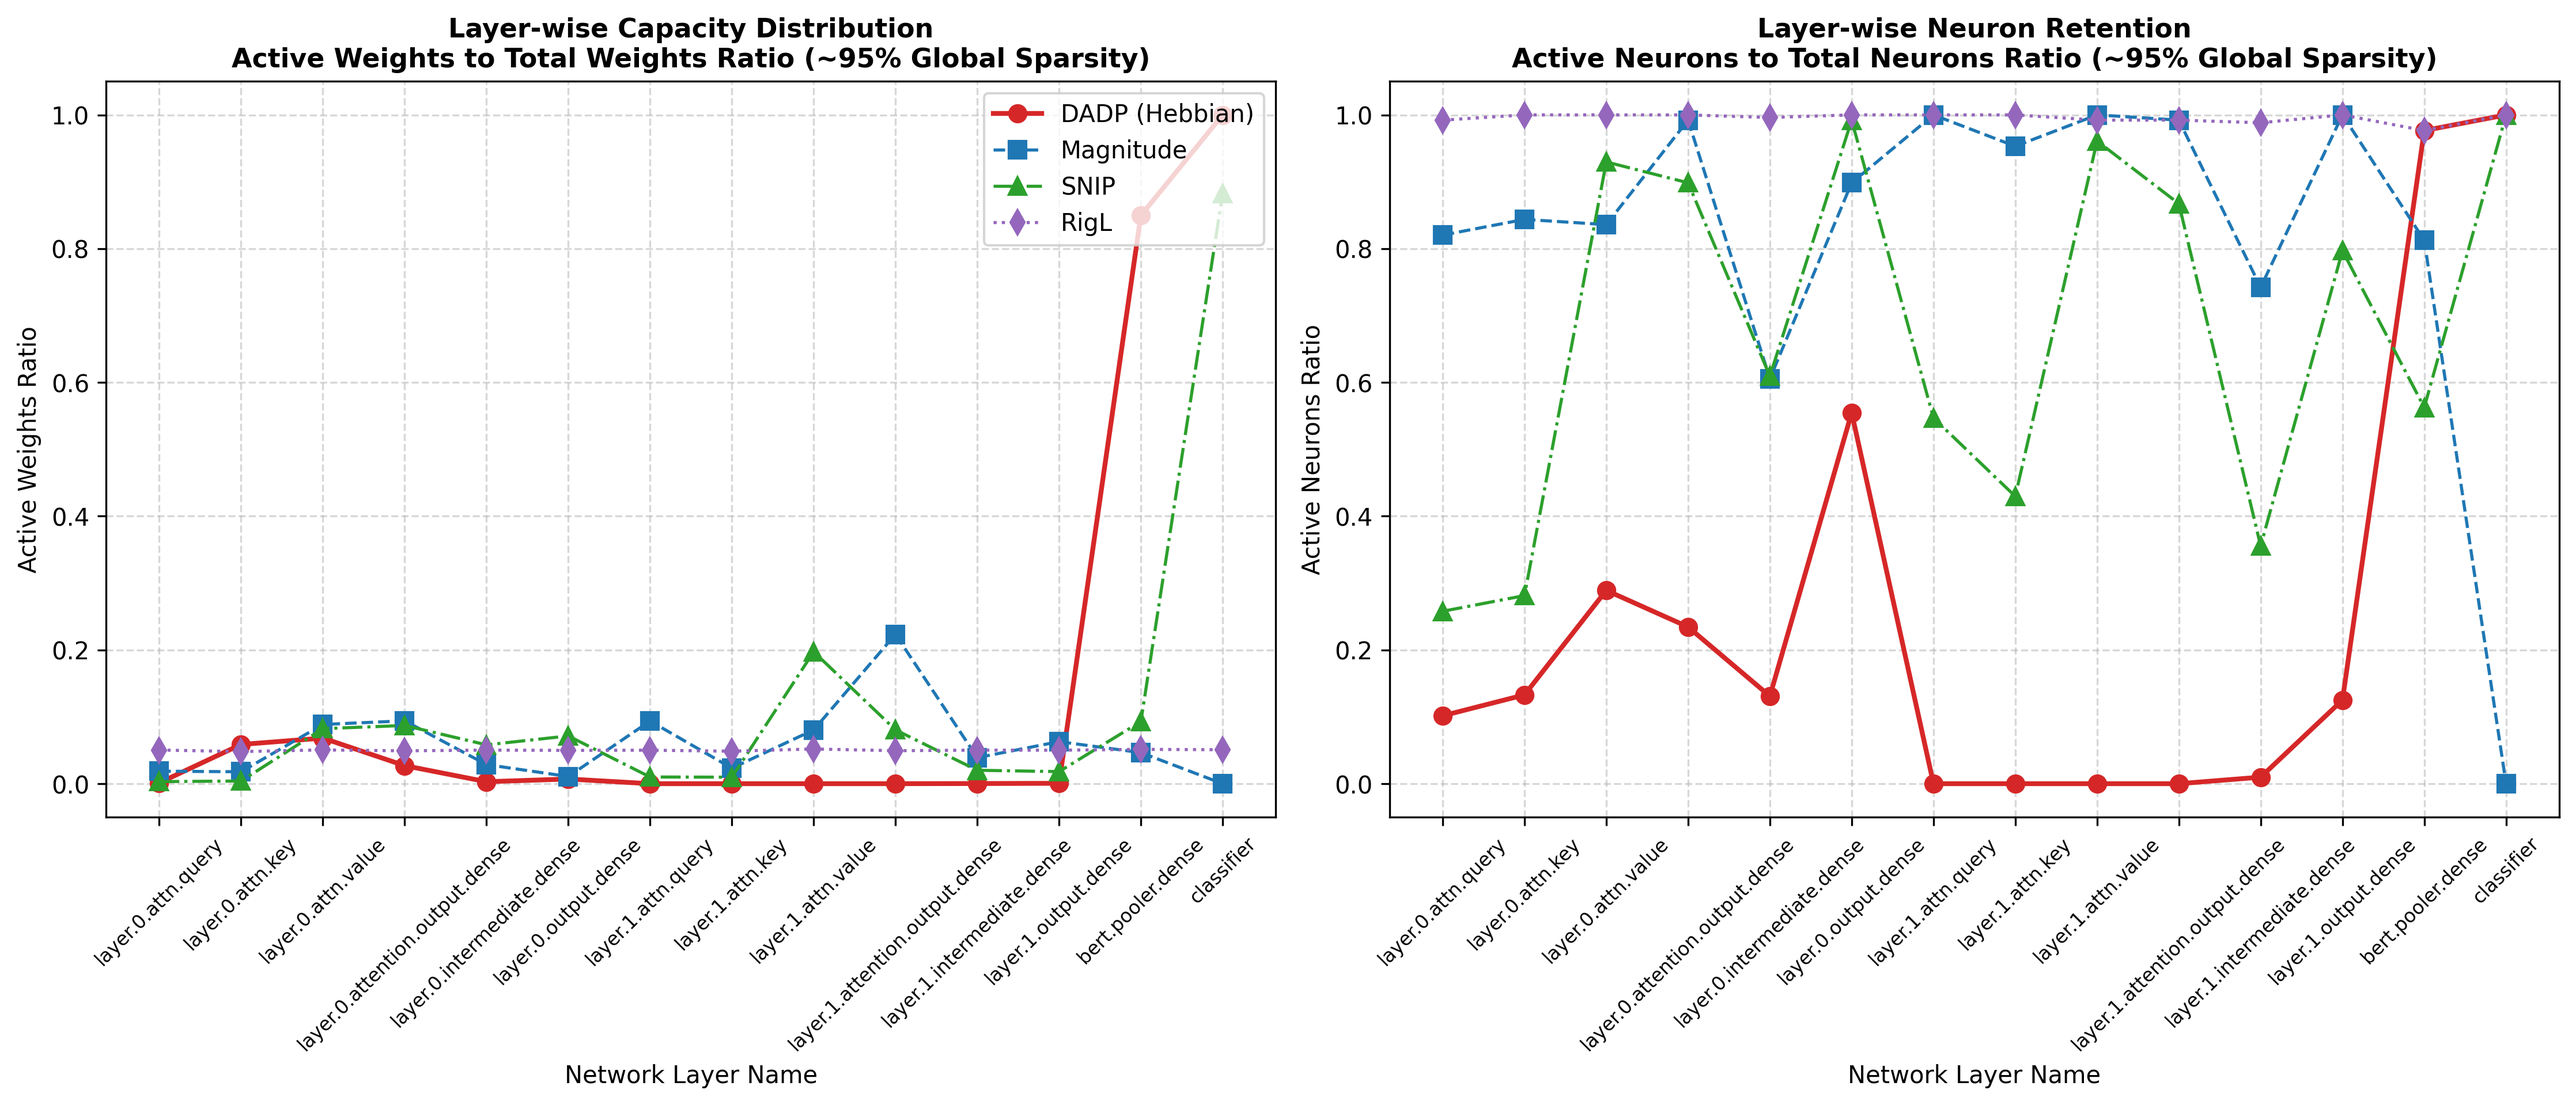
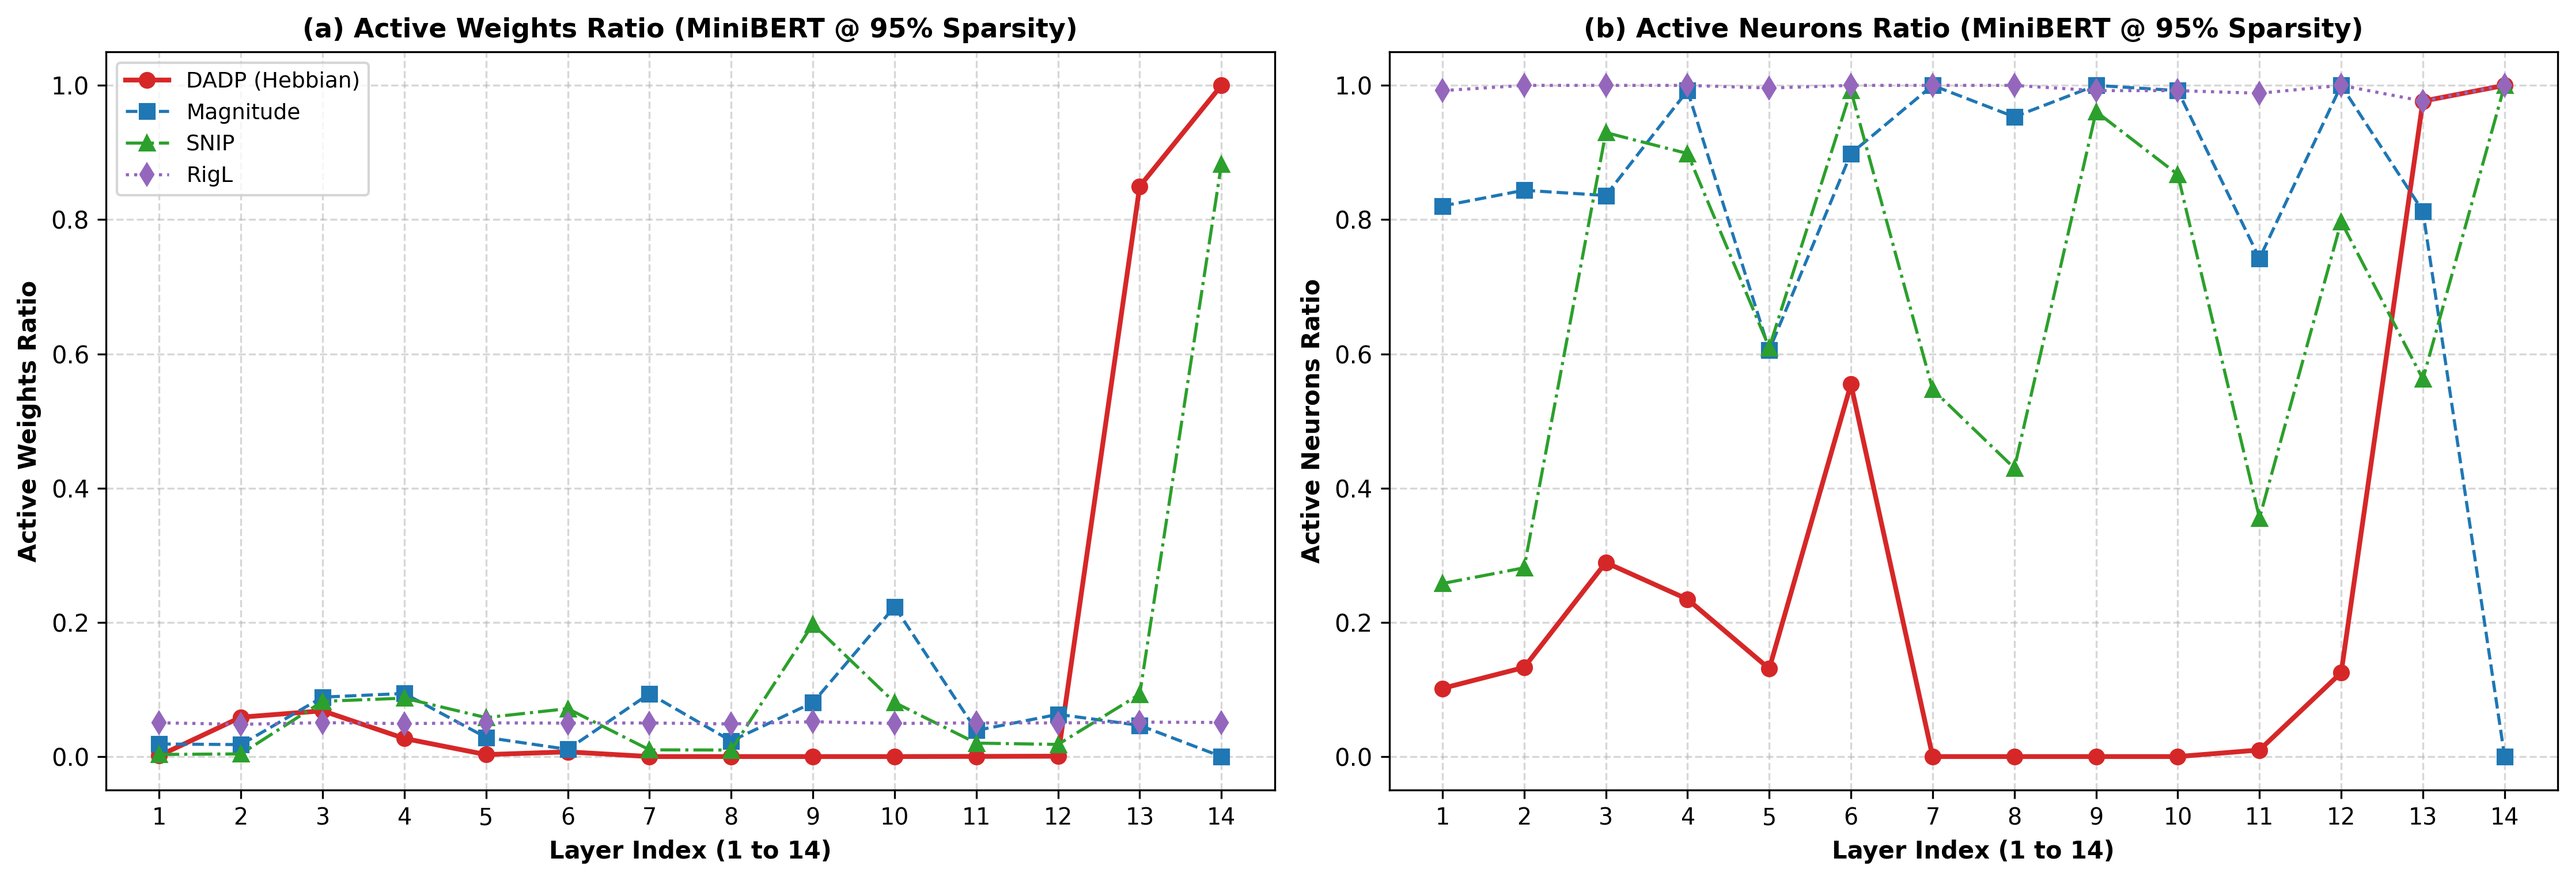
Update plot_bert_layer_metrics.py legend placement (upper left on plot a, removed from plot b)

diff --git a/scripts/plotting/plot_bert_layer_metrics.py b/scripts/plotting/plot_bert_layer_metrics.py
@@ -89,41 +89,50 @@ for method, path in comparison_files.items():
         layer_data[method]['neurons_ratio'].append(active_n / total_n)
 
 # Plotting Subplots
-fig, (ax1, ax2) = plt.subplots(1, 2, figsize=(15, 6.5), dpi=150)
+fig, (ax1, ax2) = plt.subplots(1, 2, figsize=(15, 5.2), dpi=300)
 
 for ax in [ax1, ax2]:
     ax.grid(True, linestyle='--', alpha=0.5)
 
+# Generate numeric layer indices for x-axis ticks
+sample_method = list(layer_data.keys())[0] if layer_data else None
+num_layers = len(layer_data[sample_method]['layers']) if sample_method and layer_data[sample_method]['layers'] else 13
+layer_indices = [str(i + 1) for i in range(num_layers)]
+x_coords = np.arange(num_layers)
+
 # Plot 1: Active Weights Ratio
-ax1.set_title('Layer-wise Capacity Distribution\nActive Weights to Total Weights Ratio (~95% Global Sparsity)', fontsize=11, fontweight='bold')
-ax1.set_ylabel('Active Weights Ratio', fontsize=10)
-ax1.set_xlabel('Network Layer Name', fontsize=10)
+ax1.set_title('(a) Active Weights Ratio (MiniBERT @ 95% Sparsity)', fontsize=11, fontweight='bold')
+ax1.set_ylabel('Active Weights Ratio', fontsize=10, fontweight='bold')
+ax1.set_xlabel(f'Layer Index (1 to {num_layers})', fontsize=10, fontweight='bold')
 
 for method, data in layer_data.items():
     if not data['layers']:
         continue
     lw = 2.0 if styles[method]['linestyle'] == '-' else 1.3
-    ax1.plot(data['layers'], data['weights_ratio'], 
+    ax1.plot(x_coords, data['weights_ratio'], 
              color=styles[method]['color'], marker=styles[method]['marker'], 
-             linestyle=styles[method]['linestyle'], label=method, linewidth=lw, markersize=7)
+             linestyle=styles[method]['linestyle'], label=method, linewidth=lw, markersize=6)
 
-ax1.legend(loc='upper right', frameon=True)
-ax1.tick_params(axis='x', labelrotation=45, labelsize=8)
+ax1.set_xticks(x_coords)
+ax1.set_xticklabels(layer_indices, rotation=0, fontsize=9.5, ha='center')
+ax1.legend(loc='upper left', frameon=True, fontsize=9)
 
 # Plot 2: Active Neurons Ratio
-ax2.set_title('Layer-wise Neuron Retention\nActive Neurons to Total Neurons Ratio (~95% Global Sparsity)', fontsize=11, fontweight='bold')
-ax2.set_ylabel('Active Neurons Ratio', fontsize=10)
-ax2.set_xlabel('Network Layer Name', fontsize=10)
+ax2.set_title('(b) Active Neurons Ratio (MiniBERT @ 95% Sparsity)', fontsize=11, fontweight='bold')
+ax2.set_ylabel('Active Neurons Ratio', fontsize=10, fontweight='bold')
+ax2.set_xlabel(f'Layer Index (1 to {num_layers})', fontsize=10, fontweight='bold')
 
 for method, data in layer_data.items():
     if not data['layers']:
         continue
     lw = 2.0 if styles[method]['linestyle'] == '-' else 1.3
-    ax2.plot(data['layers'], data['neurons_ratio'], 
+    ax2.plot(x_coords, data['neurons_ratio'], 
              color=styles[method]['color'], marker=styles[method]['marker'], 
-             linestyle=styles[method]['linestyle'], label=method, linewidth=lw, markersize=7)
+             linestyle=styles[method]['linestyle'], label=method, linewidth=lw, markersize=6)
 
-ax2.tick_params(axis='x', labelrotation=45, labelsize=8)
+ax2.set_xticks(x_coords)
+ax2.set_xticklabels(layer_indices, rotation=0, fontsize=9.5, ha='center')
+# Legend on right plot is removed to avoid redundancy
 
 plt.tight_layout()
 
